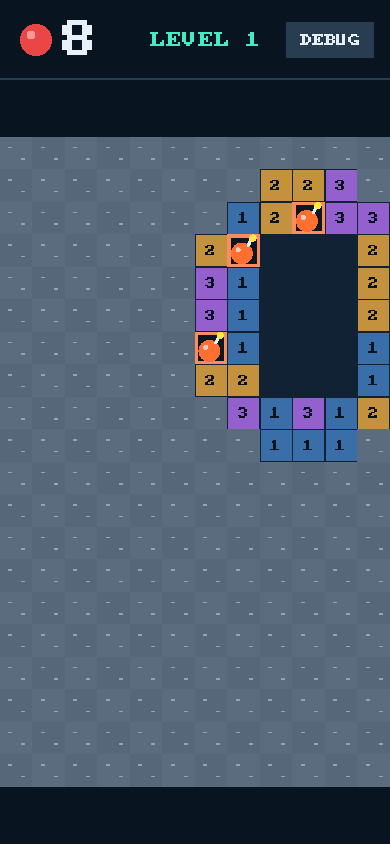
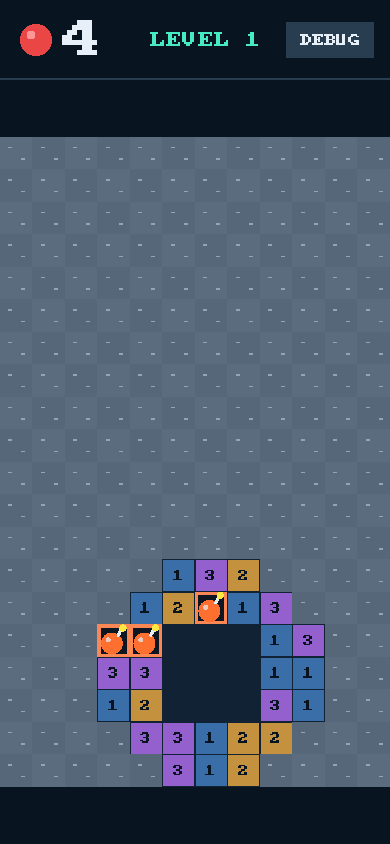
Give every TapDemo level the same four balls and retune the seeds to match
Yotam: all levels should have the same amount of balls. levelBalls (4) is now
the one count; the seed search reran at 4 balls on every level and picked new
seeds. Level 6 and 7 get 25 and 20 bounces to reach their bands. The band test
checks every level gives levelBalls; the gradual-curve tolerance within a feel
is 10 points (200 games carry ~3.5 points of noise). docs/levels.md, V5, D6 and
the ten opening-field screenshots are updated. T11.

Changed region(s): [[0.4923, 0.1848, 1.0, 0.5545], [0.2462, 0.6469, 0.8308, 0.955], [0.1538, 0.0, 0.2462, 0.0616]]

diff --git a/games/tapdemo/src/model.cpp b/games/tapdemo/src/model.cpp
@@ -30,29 +30,29 @@ Model::Model(std::uint32_t seed): randomState(seed ? seed : 42) { restart(); }
 // Bomb, Electricity, Speed, Ping, then Ghost, each brought in alone and then stacked. Each seed
 // was picked by simulated play (tests/level_tune.cpp, T11) so that the bot's results meet the
 // level's feel (target() in model.hpp); docs/levels.md has the numbers, and the band test holds them.
-// Levels 6 and 10 drop to 3 balls, where wins come mostly on the last one.
+// Every level gives levelBalls balls (Yotam); bounces and the seed carry the difficulty.
 // Weights run Bomb, Electricity, Ping, Ghost, Speed.
 const std::array<Level,levelCount> levels{{
-  {.seed=2651, .feel=Feel::Relief, .introduces=Power::Bomb, .grid={.gridScale=2,.glow=16,.weights={1,0,0,0,0}},
-   .balls=8, .bounces=15, .bombSize=5, .electricSeconds=6, .electricRadius=2.5f, .pingRadius=6},
-  {.seed=2913, .feel=Feel::BuildUp, .introduces=Power::None, .grid={.gridScale=2,.glow=24,.weights={1,0,0,0,0}},
-   .balls=5, .bounces=12, .bombSize=5, .electricSeconds=6, .electricRadius=2.5f, .pingRadius=6},
-  {.seed=263, .feel=Feel::Relief, .introduces=Power::Electricity, .grid={.gridScale=2,.glow=16,.weights={0,1,0,0,0}},
-   .balls=8, .bounces=15, .bombSize=5, .electricSeconds=6, .electricRadius=2.5f, .pingRadius=6},
-  {.seed=718, .feel=Feel::Fu, .introduces=Power::None, .grid={.gridScale=3,.glow=8,.weights={0,1,0,0,0}},
-   .balls=5, .bounces=10, .bombSize=5, .electricSeconds=5, .electricRadius=2, .pingRadius=6},
-  {.seed=547, .feel=Feel::BuildUp, .introduces=Power::Speed, .grid={.gridScale=3,.glow=16,.weights={0,0,0,0,1}},
-   .balls=7, .bounces=15, .bombSize=5, .electricSeconds=6, .electricRadius=2.5f, .pingRadius=6},
-  {.seed=2877, .feel=Feel::FuckYeah, .introduces=Power::None, .grid={.gridScale=3,.glow=30,.weights={1,1,0,0,0}},
-   .balls=3, .bounces=15, .bombSize=7, .electricSeconds=8, .electricRadius=3, .pingRadius=6},
+  {.seed=1659, .feel=Feel::Relief, .introduces=Power::Bomb, .grid={.gridScale=2,.glow=16,.weights={1,0,0,0,0}},
+   .balls=levelBalls, .bounces=15, .bombSize=5, .electricSeconds=6, .electricRadius=2.5f, .pingRadius=6},
+  {.seed=2920, .feel=Feel::BuildUp, .introduces=Power::None, .grid={.gridScale=2,.glow=24,.weights={1,0,0,0,0}},
+   .balls=levelBalls, .bounces=12, .bombSize=5, .electricSeconds=6, .electricRadius=2.5f, .pingRadius=6},
+  {.seed=334, .feel=Feel::Relief, .introduces=Power::Electricity, .grid={.gridScale=2,.glow=16,.weights={0,1,0,0,0}},
+   .balls=levelBalls, .bounces=15, .bombSize=5, .electricSeconds=6, .electricRadius=2.5f, .pingRadius=6},
+  {.seed=893, .feel=Feel::Fu, .introduces=Power::None, .grid={.gridScale=3,.glow=8,.weights={0,1,0,0,0}},
+   .balls=levelBalls, .bounces=10, .bombSize=5, .electricSeconds=5, .electricRadius=2, .pingRadius=6},
+  {.seed=522, .feel=Feel::BuildUp, .introduces=Power::Speed, .grid={.gridScale=3,.glow=16,.weights={0,0,0,0,1}},
+   .balls=levelBalls, .bounces=15, .bombSize=5, .electricSeconds=6, .electricRadius=2.5f, .pingRadius=6},
+  {.seed=948, .feel=Feel::FuckYeah, .introduces=Power::None, .grid={.gridScale=3,.glow=30,.weights={1,1,0,0,0}},
+   .balls=levelBalls, .bounces=25, .bombSize=7, .electricSeconds=8, .electricRadius=3, .pingRadius=6},
   {.seed=1751, .feel=Feel::Relief, .introduces=Power::Ping, .grid={.gridScale=3,.glow=16,.weights={0,0,1,0,0}},
-   .balls=8, .bounces=15, .bombSize=5, .electricSeconds=6, .electricRadius=2.5f, .pingRadius=7},
-  {.seed=2173, .feel=Feel::BuildUp, .introduces=Power::None, .grid={.gridScale=4,.glow=16,.weights={1,0,1,0,0}},
-   .balls=7, .bounces=15, .bombSize=5, .electricSeconds=6, .electricRadius=2.5f, .pingRadius=6},
-  {.seed=1247, .feel=Feel::Fu, .introduces=Power::Ghost, .grid={.gridScale=4,.glow=6,.weights={0,0,0,1,0}},
-   .balls=5, .bounces=12, .bombSize=5, .electricSeconds=6, .electricRadius=2.5f, .pingRadius=6},
-  {.seed=1440, .feel=Feel::FuckYeah, .introduces=Power::None, .grid={.gridScale=5,.glow=30,.weights={1,1,1,1,1}},
-   .balls=3, .bounces=15, .bombSize=7, .electricSeconds=8, .electricRadius=3, .pingRadius=8},
+   .balls=levelBalls, .bounces=20, .bombSize=5, .electricSeconds=6, .electricRadius=2.5f, .pingRadius=7},
+  {.seed=2669, .feel=Feel::BuildUp, .introduces=Power::None, .grid={.gridScale=4,.glow=16,.weights={1,0,1,0,0}},
+   .balls=levelBalls, .bounces=15, .bombSize=5, .electricSeconds=6, .electricRadius=2.5f, .pingRadius=6},
+  {.seed=1009, .feel=Feel::Fu, .introduces=Power::Ghost, .grid={.gridScale=4,.glow=6,.weights={0,0,0,1,0}},
+   .balls=levelBalls, .bounces=12, .bombSize=5, .electricSeconds=6, .electricRadius=2.5f, .pingRadius=6},
+  {.seed=1762, .feel=Feel::FuckYeah, .introduces=Power::None, .grid={.gridScale=5,.glow=30,.weights={1,1,1,1,1}},
+   .balls=levelBalls, .bounces=15, .bombSize=7, .electricSeconds=8, .electricRadius=3, .pingRadius=8},
 }};
 DebugSettings DebugSettings::clamped(int schemes) const {
   DebugSettings s=*this;

diff --git a/tests/level_band_tests.cpp b/tests/level_band_tests.cpp
@@ -15,6 +15,7 @@ void levelBandChecks() {
   levelbot::Metrics measured[levelCount];
   for(int n=1; n<=levelCount; ++n) {
     const Level& l=levels[n-1];
+    check(l.balls==levelBalls,n,"every level gives the same number of balls");
     const auto m=measured[n-1]=levelbot::measure(n,l,1,runs);
     const auto t=target(l.feel);
     std::cout<<"Level "<<n<<": wins "<<100*m.winRate()<<"%, last ball "<<100*m.lastBallShare()<<"%, chain "<<100*m.chainShare()
@@ -23,9 +24,9 @@ void levelBandChecks() {
     check(m.lastBallShare()>=t.lastBall,n,"too few wins come on the last ball");
     check(m.chainShare()>=t.chain,n,"too few wins come through a power-up");
     check(m.nearShare()>=t.near,n,"too few losses come near the goal");
-    // Gradual: no level is easier than an earlier level of the same feel by more than five points.
+    // Gradual: no level is easier than an earlier level of the same feel by more than ten points (200 games carry about 3.5 points of noise).
     for(int k=1; k<n; ++k)
-      check(levels[k-1].feel!=l.feel || m.winRate()<=measured[k-1].winRate()+0.05f,n,"a later level of the same feel is clearly easier");
+      check(levels[k-1].feel!=l.feel || m.winRate()<=measured[k-1].winRate()+0.10f,n,"a later level of the same feel is clearly easier");
   }
   // The player's path: levels 1 to 3 with every shot pressed, dragged and released on the
   // fitted screen meet the same band. The screen round trip moves a shot by a hair, and a long

diff --git a/games/tapdemo/include/tapdemo/model.hpp b/games/tapdemo/include/tapdemo/model.hpp
@@ -49,6 +49,7 @@ struct Level {
   int bombSize{}, electricSeconds{}; float electricRadius{}; int pingRadius{};
 };
 constexpr int levelCount=10;
+constexpr int levelBalls=4; // every level gives the same number of balls
 // What a simulated player's results must show on a level of each feel (T11; docs/levels.md):
 // the win rate's band, and the least share of wins on the last ball and through a power-up
 // chain, and of losses that came near (the goal seen or within fogReach of an open cell).

diff --git a/docs/levels.md b/docs/levels.md
@@ -32,32 +32,36 @@ of the fog, so a loss within 2 always saw the goal. The targets are
 
 | # | Experience | Power-ups (glow) | Seed | Balls / bounces | Wins | Experience metric |
 | ---: | --- | --- | ---: | --- | ---: | --- |
-| 1 | relief | Bomb, new (8%) | 2651 | 8 / 15 | 100% | 100% of wins through a Bomb |
-| 2 | build-up | Bomb (12%) | 2913 | 5 / 12 | 55.3% | 99.5% of wins through a Bomb |
-| 3 | relief | Electricity, new (8%) | 263 | 8 / 15 | 100% | 72% of wins through lightning |
-| 4 | fu | Electricity (4%) | 718 | 5 / 10 | 13.3% | 64.6% of losses saw the goal (mean 2.1 cells off) |
-| 5 | build-up | Speed, new (8%) | 547 | 7 / 15 | 55.4% | 93.6% of losses saw the goal |
-| 6 | fuck yeah | Bomb, Electricity (15%) | 2877 | 3 / 15 | 41.0% | 58.6% of wins on the last ball, all through a chain |
-| 7 | relief | Ping, new (8%) | 1751 | 8 / 15 | 99.9% | wins by direct hits (1.9% through a power-up) |
-| 8 | build-up | Bomb, Ping (8%) | 2173 | 7 / 15 | 52.3% | 99.9% of wins through a power-up |
-| 9 | fu | Ghost, new (3%) | 1247 | 5 / 12 | 12.8% | 86.4% of losses saw the goal (mean 2.0 cells off) |
-| 10 | fuck yeah | all five (15%) | 1440 | 3 / 15 | 44.2% | 58.4% of wins on the last ball, all through a chain |
+| 1 | relief | Bomb, new (8%) | 1659 | 4 / 15 | 100% | 99.9% of wins through a Bomb |
+| 2 | build-up | Bomb (12%) | 2920 | 4 / 12 | 54.9% | 99.5% of wins through a Bomb |
+| 3 | relief | Electricity, new (8%) | 334 | 4 / 15 | 98.4% | 85.6% of wins through lightning |
+| 4 | fu | Electricity (4%) | 893 | 4 / 10 | 12.9% | 54.4% of losses saw the goal (mean 2.4 cells off) |
+| 5 | build-up | Speed, new (8%) | 522 | 4 / 15 | 54.8% | 78.7% of losses saw the goal |
+| 6 | fuck yeah | Bomb, Electricity (15%) | 948 | 4 / 25 | 38.9% | 50.9% of wins on the last ball; 71.3% through a chain |
+| 7 | relief | Ping, new (8%) | 1751 | 4 / 20 | 92.8% | wins by direct hits (1.6% through a power-up) |
+| 8 | build-up | Bomb, Ping (8%) | 2669 | 4 / 15 | 54.8% | 99.5% of wins through a power-up |
+| 9 | fu | Ghost, new (3%) | 1009 | 4 / 12 | 12.5% | 58.3% of losses saw the goal (mean 2.1 cells off) |
+| 10 | fuck yeah | all five (15%) | 1762 | 4 / 15 | 44.2% | 61.8% of wins on the last ball, all through a chain |
 
-Grids grow 12x20 (1 to 3), 18x30 (4 to 7), 24x40 (8, 9), 30x50 (10). Only the
-seeds and the balls on levels 6 and 10 changed. With 8 or 10 balls no seed put
-a fuck-yeah level's wins mostly on the last ball (the three seeds of 5,000
-closest to the target: 25 to 31% on level 6, 22 to 24% on level 10); with 3
-balls about 58% are.
+Grids grow 12x20 (1 to 3), 18x30 (4 to 7), 24x40 (8, 9), 30x50 (10). **Every level
+gives 4 balls** (Yotam's call: all levels have the same number). Difficulty comes
+from the seed, the grid, the glow and the bounces: levels 6 and 7 got more bounces
+(25 and 20) so the bot clears the relief band and level 6 reaches its win band
+at 4 balls; with 4 balls on every level, 4 of the 10 levels needed no change
+beyond a new seed. At 5 balls the fuck-yeah levels reached at most 45% of wins on
+the last ball (best seeds of 3,000); at 4 balls level 6 reaches 51% and level 10
+62%.
 
-**The curve.** Wins run 100, 55, 100, 13, 55, 41, 100, 52, 13, 44%. Within each
-experience a later level is never easier than an earlier one by more than 5
-points (the band test checks it): build-up 55.3, 55.4, 52.3; fu 13.3, 12.8;
-fuck yeah 41.0, 44.2.
+**The curve.** Wins run 100, 55, 98, 13, 55, 39, 93, 55, 13, 44%. Within each
+experience a later level is never easier than an earlier one by more than 10
+points (the band test checks it; 200 games carry about 3.5 points of noise).
+Level 10 (44%) is 5 points easier than level 6 (39%) over 2,000 games, a bigger
+field with the same bands.
 
 **What the numbers do not show.** Speed and Ping break nothing, so the chain
 share cannot show that levels 5 and 7 teach them; the bot wins level 7 without
 needing Ping. The relief levels are won almost every time, so a person will
-find them very easy. Level 6's losses almost never see the goal (0.7%): it
+find them very easy. Level 10's losses rarely see the goal (5%): it
 looks lost until it is won, as the experience asks, but those losses do not
 feel near.
 
@@ -72,9 +76,9 @@ build/windows/level_tune.exe search 6 1 3000 300 3 15
 `search LEVEL FIRST COUNT RUNS [balls bounces]` plays every seed in the range
 RUNS times, keeps the forty closest to the target, replays them over the
 report's 2,000 and the test's 200 bot games, and lists the ten whose worse
-result is closest. Seeds whose goal starts out of the fog are skipped. Levels 1
-to 5 and 7 to 9 searched seeds 1 to 5,000 (then 1 to 3,000 for the final pick);
-levels 6 and 10 searched 1 to 3,000 with 3, 4 and 5 balls.
+result is closest. Seeds whose goal starts out of the fog are skipped. Every level
+searched seeds 1 to 3,000 with 4 balls (levels 6 and 7 also with 20 and 25
+bounces, level 10 also 3,001 to 10,000).
 
 ## Opening fields
 

diff --git a/docs/roadmap.md b/docs/roadmap.md
@@ -201,39 +201,42 @@ T11 adds a headless bot (`tests/level_bot.hpp`), a seed search tool
 (`level_tune`, built beside the tests and not run by them), per-feel targets in
 `tapdemo::target()`, `Model::play(level, table)` for trying another seed, and a
 `field` smoke scene (the opening field, card dismissed). It writes ten new
-seeds into the level table and drops levels 6 and 10 to 3 balls. The report is
+seeds into the level table. Yotam: "all levels should have the same amount of
+balls", so every level gives 4 (`levelBalls`); levels 6 and 7 get 25 and 20 bounces. The report is
 `docs/levels.md`.
 
 | Level | Feel | Seed | Balls | Bot wins (2,000 games) | Experience metric |
 | ---: | --- | ---: | ---: | ---: | --- |
-| 1 | relief | 2651 | 8 | 100% | all wins through a Bomb |
-| 2 | build-up | 2913 | 5 | 55.3% | 99.5% of wins through a Bomb |
-| 3 | relief | 263 | 8 | 100% | 72% of wins through lightning |
-| 4 | fu | 718 | 5 | 13.3% | 64.6% of losses saw the goal |
-| 5 | build-up | 547 | 7 | 55.4% | 93.6% of losses saw the goal |
-| 6 | fuck yeah | 2877 | 3 | 41.0% | 58.6% of wins on the last ball, all chains |
-| 7 | relief | 1751 | 8 | 99.9% | direct hits |
-| 8 | build-up | 2173 | 7 | 52.3% | 99.9% of wins through a power-up |
-| 9 | fu | 1247 | 5 | 12.8% | 86.4% of losses saw the goal |
-| 10 | fuck yeah | 1440 | 3 | 44.2% | 58.4% of wins on the last ball, all chains |
+| 1 | relief | 1659 | 4 | 100% | all wins through a Bomb |
+| 2 | build-up | 2920 | 4 | 54.9% | 99.5% of wins through a Bomb |
+| 3 | relief | 334 | 4 | 98.4% | 85.6% of wins through lightning |
+| 4 | fu | 893 | 4 | 12.9% | 54.4% of losses saw the goal |
+| 5 | build-up | 522 | 4 | 54.8% | 78.7% of losses saw the goal |
+| 6 | fuck yeah | 948 | 4 | 38.9% | 50.9% of wins on the last ball, 71.3% through a chain |
+| 7 | relief | 1751 | 4 | 92.8% | direct hits |
+| 8 | build-up | 2669 | 4 | 54.8% | 99.5% of wins through a power-up |
+| 9 | fu | 1009 | 4 | 12.5% | 58.3% of losses saw the goal |
+| 10 | fuck yeah | 1762 | 4 | 44.2% | 61.8% of wins on the last ball, all chains |
 
 **Tests.** `yy_tests` plays each level 200 times with bot seeds 1 to 200 and
 fails when its win rate, last-ball share, chain share or near-loss share leaves
 its feel's target, or when a later level of the same feel is easier by more than
-5 points; it also plays levels 1 to 3 with every shot pressed, dragged and
+10 points; it also plays levels 1 to 3 with every shot pressed, dragged and
 released through `tapdemo::Touch` on the fitted camera and requires the same
-band within 5 points of the direct shots (100%, 55.5%, 100%). Restoring level
-2's old seed fails it ("level 2: the win rate is outside its feel's band", 86.5%).
+band within 5 points of the direct shots (100%, 55%, 99%). With level 2's old
+placeholder seed the test failed ("level 2: the win rate is outside its feel's
+band", 86.5%) before it was replaced; it also checks that every level gives
+`levelBalls`.
 The test adds about a second.
 
 **Visual evidence.** `TapDemo.exe --smoke 30` with `YY_TAPDEMO_LEVEL` 1 to 10
 and `YY_TAPDEMO_SCENE=field`: `docs/figures/levels/level-01.png` to
 `level-10.png`. Inspected: each shows LEVEL N in the header with its ball count
-(3 on levels 6 and 10), the cavities ringed by the level's own glowing kinds,
+(4 on every level), the cavities ringed by the level's own glowing kinds,
 and the rest under fog.
 
 **Open:** the bot is not a person; whether relief feels too easy (the bot wins
-100%) and whether level 6's losses feel near (0.7% see the goal) are Yotam's
+100%) and whether level 10's losses feel near (level 10's losses rarely see the goal, 5%) are Yotam's
 calls on TestFlight. Speed and Ping break nothing, so the numbers cannot show
 levels 5 and 7 teach them. Device performance is not applicable.
 

diff --git a/docs/roadmap-summary.md b/docs/roadmap-summary.md
@@ -19,7 +19,7 @@ python studio/fe_docs.py show V58
 - **V9** the captures are desktop SDL at 1x. Phone 3x appearance and the 200 ms pop's tactile feel remain the owner's TestFlight check. This task has no device performance goal. An installation with a saved legacy palette keeps it; select GARDEN POP in DEBUG / COLORS to try the new look.
 - **V8** sprites have no mipmaps, so art shrunk past about 2x aliases; the 40-point flower in the 1x desktop capture shows it. Text has no kerning. The capture is desktop 1x; the 3x phone draws from the larger bakes, not yet seen on a device. No game art, look or gameplay changes.
 - **V7** Yotam chooses a theme. Accepting the revised plan starts Garden Pop's implementation; another theme needs a named change first. The 180-220 ms hit settle is a proposed target, not a measured animation. Damage cues during motion, BMP alpha support and iPhone performance need a playable check after acceptance. Runtime tests, player-path and device checks are not applicable to this concept round. No game, engine or palette changes.
-- **V5** the bot is not a person; whether relief feels too easy (the bot wins 100%) and whether level 6's losses feel near (0.7% see the goal) are Yotam's calls on TestFlight. Speed and Ping break nothing, so the numbers cannot show levels 5 and 7 teach them. Device performance is not applicable.
+- **V5** the bot is not a person; whether relief feels too easy (the bot wins 100%) and whether level 10's losses feel near (level 10's losses rarely see the goal, 5%) are Yotam's calls on TestFlight. Speed and Ping break nothing, so the numbers cannot show levels 5 and 7 teach them. Device performance is not applicable.
 - **V4** the player path on a phone or simulator (play level 1 to a win, see level 2, lose, retry) is Yotam's TestFlight check; the Windows tests drive the same Game handlers. Seeds and numbers are T11's. Debug settings other than the level are still session-only (T9). Device performance is not applicable.
 - **V3** Yotam's phone review of the numbers and of tapping the denser panel. A bomb near the wall can still exist when the bomb size is raised after the grid was generated. Device performance is not applicable.
 - **V2** Yotam's phone review. At 60 by 100 a cell is about 6.5 points at minimum zoom, so play needs zooming in. Device performance is not applicable.

diff --git a/docs/decisions/design.md b/docs/decisions/design.md
@@ -135,8 +135,10 @@ up to 4 degrees error) at the goal once it shows, else a visible glowing brick,
 the rest at random, with the snap applied. `level_tune` searches thousands of
 seeds per level and keeps one whose results over 2,000 and over the first 200
 bot games both meet the target. The band test replays the 200 in `yy_tests`.
-Levels 6 and 10 drop to 3 balls: with 8 or 10, no seed put most wins on the
-last ball. Within a feel, a later level may not be easier by more than 5 points.
+Yotam: "all levels should have the same amount of balls": every level gives
+`levelBalls` (4), which is the count where both fuck-yeah levels get most wins
+on the last ball; difficulty varies by seed, grid, glow and bounces. Within a
+feel, a later level may not be easier by more than 10 points.
 
 **Why.** A seed the bot cannot meet a band with is visibly wrong before anyone
 plays it, and the test stops a model change from silently moving a level out
